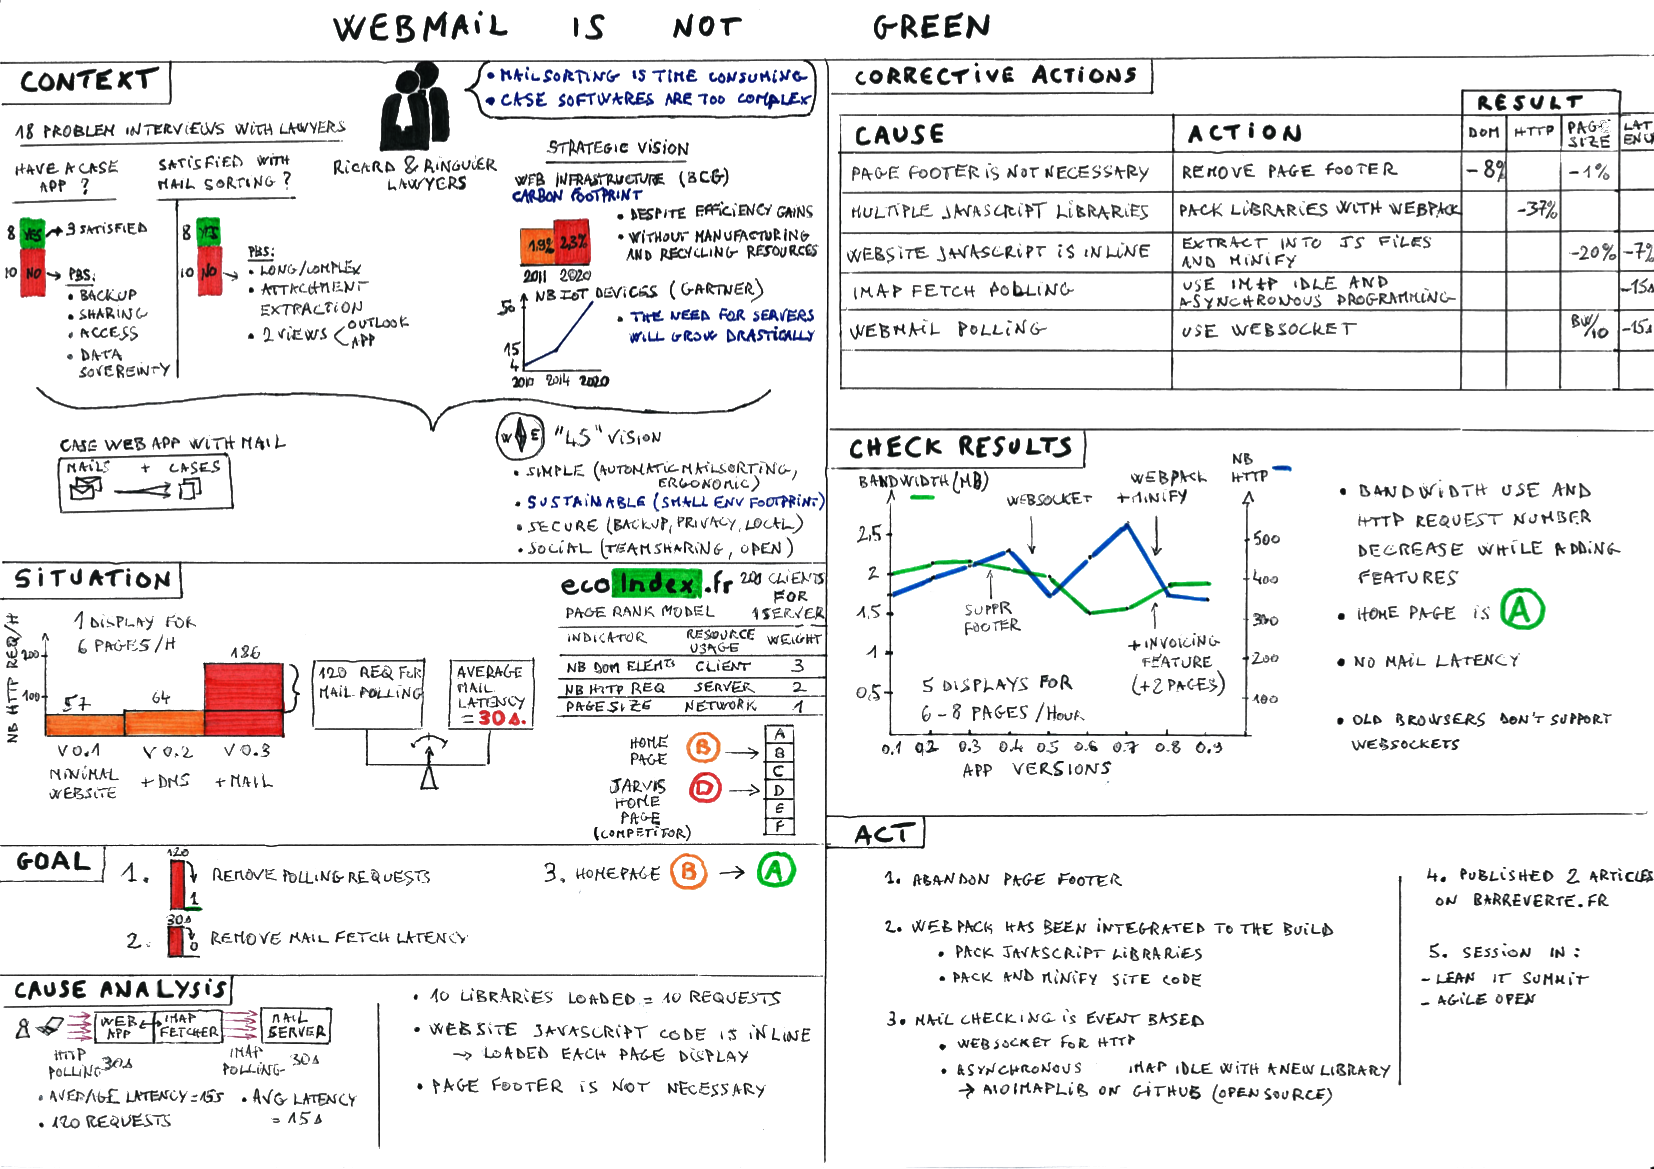
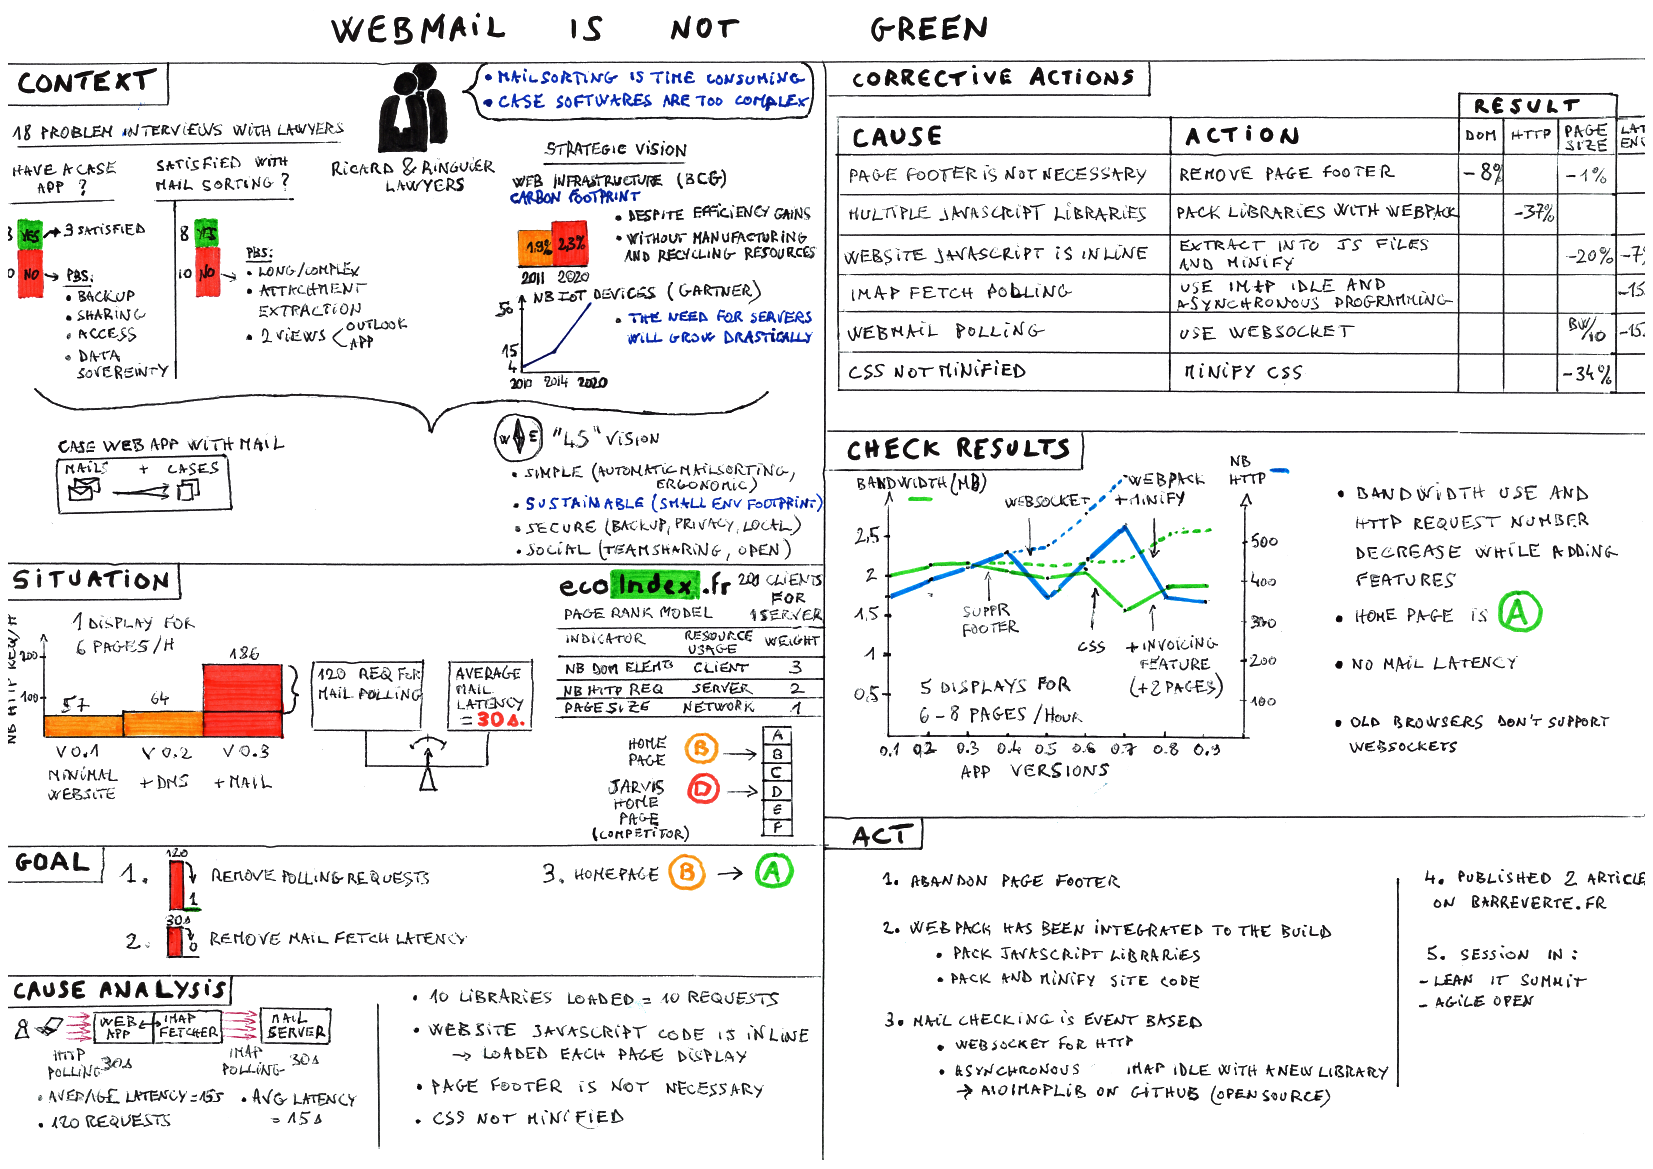
ajout transitions et modification A3 (ajout minification CSS)

diff --git a/index.html b/index.html
@@ -22,10 +22,10 @@
   <body>
     <header role="banner">
       <nav role="navigation">
-        <p class="logo"><a href="index.html" title="WebSlides">WebSlides</a></p>
+        <p class="logo"><a href="index.html" title="WebSlides">Lean For GreenIT</a></p>
         <ul>
           <li class="github">
-            <a rel="external" href="https://github.com/bamthomas/lean4greeit" title="Github">
+            <a rel="external" href="https://github.com/bamthomas/lean4greenit" title="Github">
               <svg class="fa-github">
                 <use xlink:href="#fa-github"></use>
               </svg>
@@ -33,11 +33,11 @@
             </a>
           </li>
           <li class="twitter">
-            <a rel="external" href="https://twitter.com/webslides" title="Twitter">
+            <a rel="external" href="https://twitter.com/bam_thomas" title="Twitter">
               <svg class="fa-twitter">
                 <use xlink:href="#fa-twitter"></use>
               </svg>
-              <em>@WebSlides</em>
+              <em>@bam_thomas</em>
             </a>
           </li>
         </ul>
@@ -54,8 +54,28 @@
               How we have used Lean during conception phase<br>
               to reduce the ecological footprint of our website
             </p>
+            <p>
+              Bruno Thomas - <a href="https://twitter.com/bam_thomas">@bam_thomas</a> -  <a href="https://classe.io">classe.io</a>
+            </p>
           </div>
         </section>
+
+        <section>
+          <div class="wrap">
+            <div class="card-50">
+              <blockquote>
+                <p>"If you aggregated the electricity use by data centers and the networks
+                  that connect to our devices, <strong>it would rank sixth among all countries</strong>"</p>
+                <p><cite>Gary Cook</cite>
+                  Greenpeace's international IT analyst</p>
+              </blockquote>
+              <figure>
+                <img src="static/images/greenpeace.png">
+              </figure>
+            </div>
+          </div>
+        </section>
+
         <section>
           <div class="wrap size-50 aligncenter">
             <h2><strong>A meeting</strong></h2>
@@ -76,6 +96,15 @@
         </section>
 
         <section>
+          <div class="wrap size-50 aligncenter">
+            <div class="bg-white shadow">
+              <img src="static/images/context.png">
+            </div>
+          </div>
+        </section>
+
+        <section>
+          <span class="background-right-bottom" style="background-image:url('static/images/devorer_livre.gif')"></span>
           <div class="wrap">
             <h1>What does the litterature say ?</h1>
             About CSR in software development
@@ -135,16 +164,21 @@
         <section>
           <div class="wrap size-50 aligncenter">
             <div class="bg-white shadow">
-              <img src="static/images/context.png">
+              <img src="static/images/situation.png">
             </div>
           </div>
         </section>
 
         <section>
-          <div class="wrap size-50 aligncenter">
-            <div class="bg-white shadow">
-              <img src="static/images/situation.png">
-            </div>
+          <div class="wrap">
+            <div class="card-50">
+              <figure>
+                <img src="static/images/ascenseur_polling.gif">
+              </figure>
+              <blockquote>
+                <h1>Polling...</h1>
+                <p>"...is like sending elevator to each floor all the time to see if someone is there"</p>
+              </blockquote>
           </div>
         </section>
 
@@ -244,14 +278,19 @@
         </section>
 
         <section>
-          <div class="wrap size-50 aligncenter">
-            <div class="bg-white shadow">
-              <img src="static/images/cause_analysis.png">
-            </div>
+          <div class="wrap">
+            <div class="card-50">
+              <figure>
+                <img src="static/images/travolta.gif">
+              </figure>
+              <div>
+              <h1>let's go and see</h1>
+              <p>how the layer is built</p>
+              </div>
           </div>
         </section>
 
-                <section>
+        <section>
           <div class="wrap">
             <div class="grid ms">
               <div class="column">
@@ -297,7 +336,7 @@
                         <li>
                             <div>
                                 <svg class="fa-css3"><use xlink:href="#fa-css3"></use></svg>
-                                2 stylesheets CSS. Each is a request
+                                2 stylesheets CSS not minified
                             </div>
                         </li>
                         <li>
@@ -339,8 +378,16 @@
               <div class="column">
                 <h2>Zoom 2: go and see footer</h2>
                 <p>The lawyers asked to remove the footer. This represents 558 Bytes and 8 DOM elements for each page</p>
-                <img src="static/images/dossiers_0.3.21.png">
+                <a href="static/images/dossiers_0.3.21.png"><img src="static/images/dossiers_0.3.21.png"></a>
               </div>
+            </div>
+          </div>
+        </section>
+
+        <section>
+          <div class="wrap size-50 aligncenter">
+            <div class="bg-white shadow">
+              <img src="static/images/cause_analysis.png">
             </div>
           </div>
         </section>
